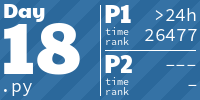
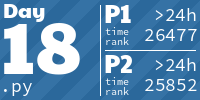
2024 - Day 18, part 2

Changed region(s): [[0.72, 0.78, 0.99, 0.93], [0.78, 0.57, 0.99, 0.72]]

diff --git a/ibidem/advent_of_code/y2024/dec18.py b/ibidem/advent_of_code/y2024/dec18.py
@@ -1,4 +1,6 @@
 #!/usr/bin/env python
+import itertools
+
 from ibidem.advent_of_code.a_star import a_star, Node
 from ibidem.advent_of_code.board import Board
 from ibidem.advent_of_code.util import get_input_name, gen_list, Vector
@@ -18,8 +20,36 @@ def part1(positions, size, bytecount):
     return cost
 
 
-def part2(input):
-    return None
+def part2(positions, size, bytecount):
+    current_bc = bytecount
+    working_bytecount = 0
+    working_board = Board(size[0], size[1], do_translate=False, flip=False, fill_value=".", growable=False)
+    while current_bc > 0:
+        this_bytecount, working_board = find_last_working_bytecount(current_bc, positions[working_bytecount:], size, working_board)
+        working_bytecount += this_bytecount
+        print(f"Stepping {current_bc}: Last working board at bytecount {working_bytecount}")
+        if current_bc == 1:
+            break
+        current_bc = current_bc // 2
+    print("Last working board at bytecount", working_bytecount)
+    x, y = positions[working_bytecount]
+    return f"{x},{y}"
+
+
+def find_last_working_bytecount(bytecount, positions, size, clear_board):
+    working_board = clear_board.copy()
+    working_bytecount = 0
+    for i, bytes in enumerate(itertools.batched(positions, bytecount)):
+        board = working_board.copy()
+        for x, y in bytes:
+            board.set(x, y, "#")
+        _, path = a_star(Node(Vector(0, 0)), Vector(size[0] - 1, size[1] - 1), board)
+        if path is not None:
+            working_board = board
+            working_bytecount = (i + 1) * bytecount
+        else:
+            break
+    return working_bytecount, working_board
 
 
 if __name__ == "__main__":
@@ -27,5 +57,5 @@ if __name__ == "__main__":
         p1_result = part1(load(fobj), (71, 71), 1024)
         print(f"Part 1: {p1_result}")
     with open(get_input_name(18, 2024)) as fobj:
-        p2_result = part2(load(fobj))
+        p2_result = part2(load(fobj), (71, 71), 1024)
         print(f"Part 2: {p2_result}")

diff --git a/ibidem/advent_of_code/y2024/test/test_dec18.py b/ibidem/advent_of_code/y2024/test/test_dec18.py
@@ -9,7 +9,7 @@ from ibidem.advent_of_code.y2024.dec18 import load, part1, part2
 Case = namedtuple('Case', 'part1 part2 input')
 
 TEST_INPUTS = [
-    Case(22, NotImplemented, io.StringIO(textwrap.dedent("""\
+    Case(22, "6,1", io.StringIO(textwrap.dedent("""\
         5,4
         4,2
         4,5
@@ -54,11 +54,11 @@ class TestDec18():
         assert len(loaded[0]) == 2
         assert loaded[0] == (5, 4)
 
+    @pytest.mark.skip("Not interested right now")
     def test_part1(self, loaded, case):
         result = part1(loaded, (7,7), 12)
         assert result == case.part1
 
-    @pytest.mark.skip(reason="TODO")
     def test_part2(self, loaded, case):
-        result = part2(loaded)
+        result = part2(loaded, (7,7), 12)
         assert result == case.part2

diff --git a/ibidem/advent_of_code/visualizer/__init__.py b/ibidem/advent_of_code/visualizer/__init__.py
@@ -152,8 +152,8 @@ class Visualizer(metaclass=ABCMeta):
 
 def parse_cmdline():
     parser = argparse.ArgumentParser(description="Advent of Code")
-    parser.add_argument("--visualize", action="store_true", default=True, help="Visualize the solution")
-    parser.add_argument("--pause", action="store_true", default=True, help="Pause before start and after end")
+    parser.add_argument("--visualize", action="store_true", default=False, help="Visualize the solution")
+    parser.add_argument("--pause", action="store_true", default=False, help="Pause before start and after end")
     parser.add_argument("--fps", type=int, default=0, help="Frames per second")
     options, _ = parser.parse_known_args()
     global visualization_enabled, pause_enabled, fps
